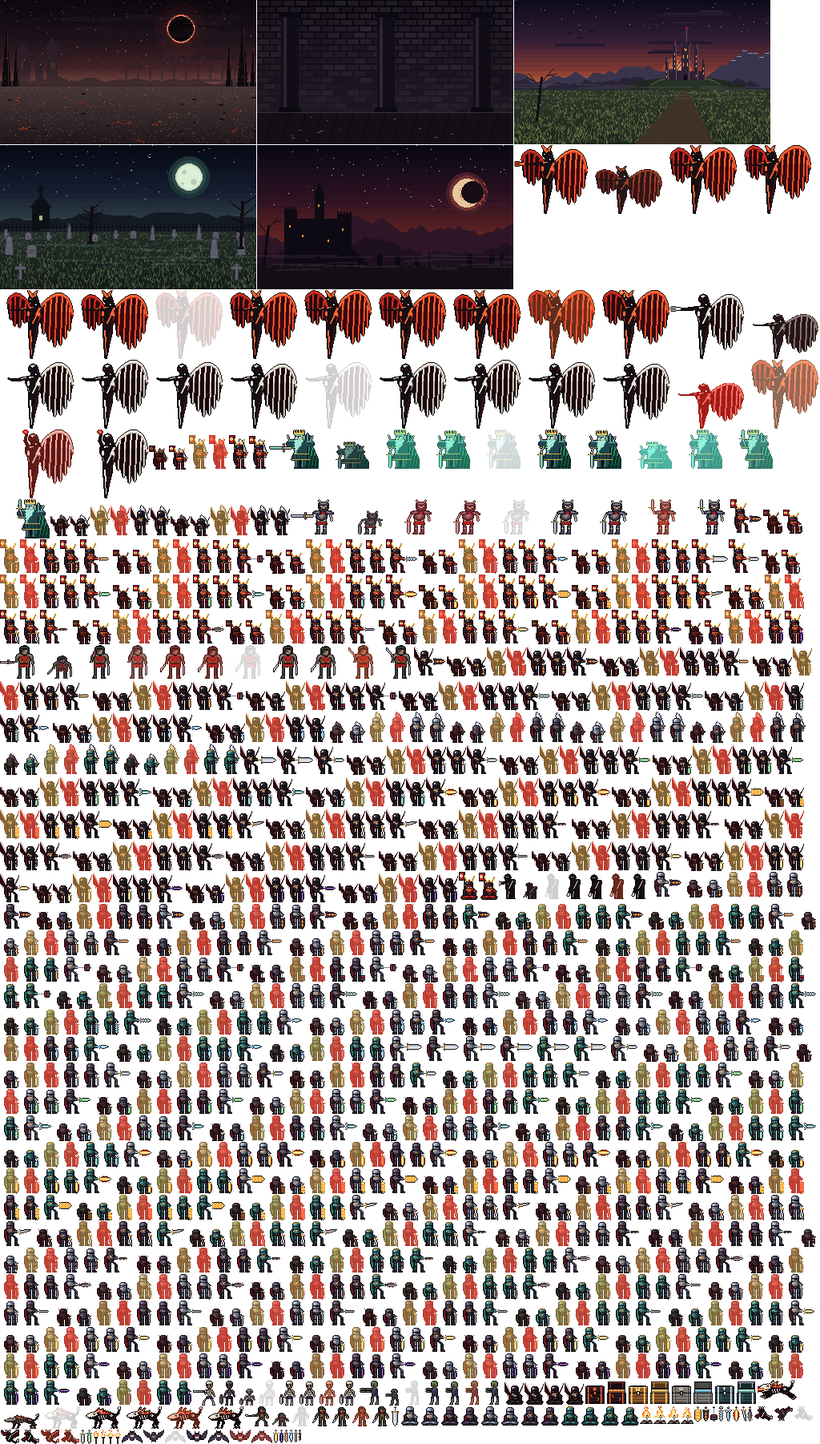
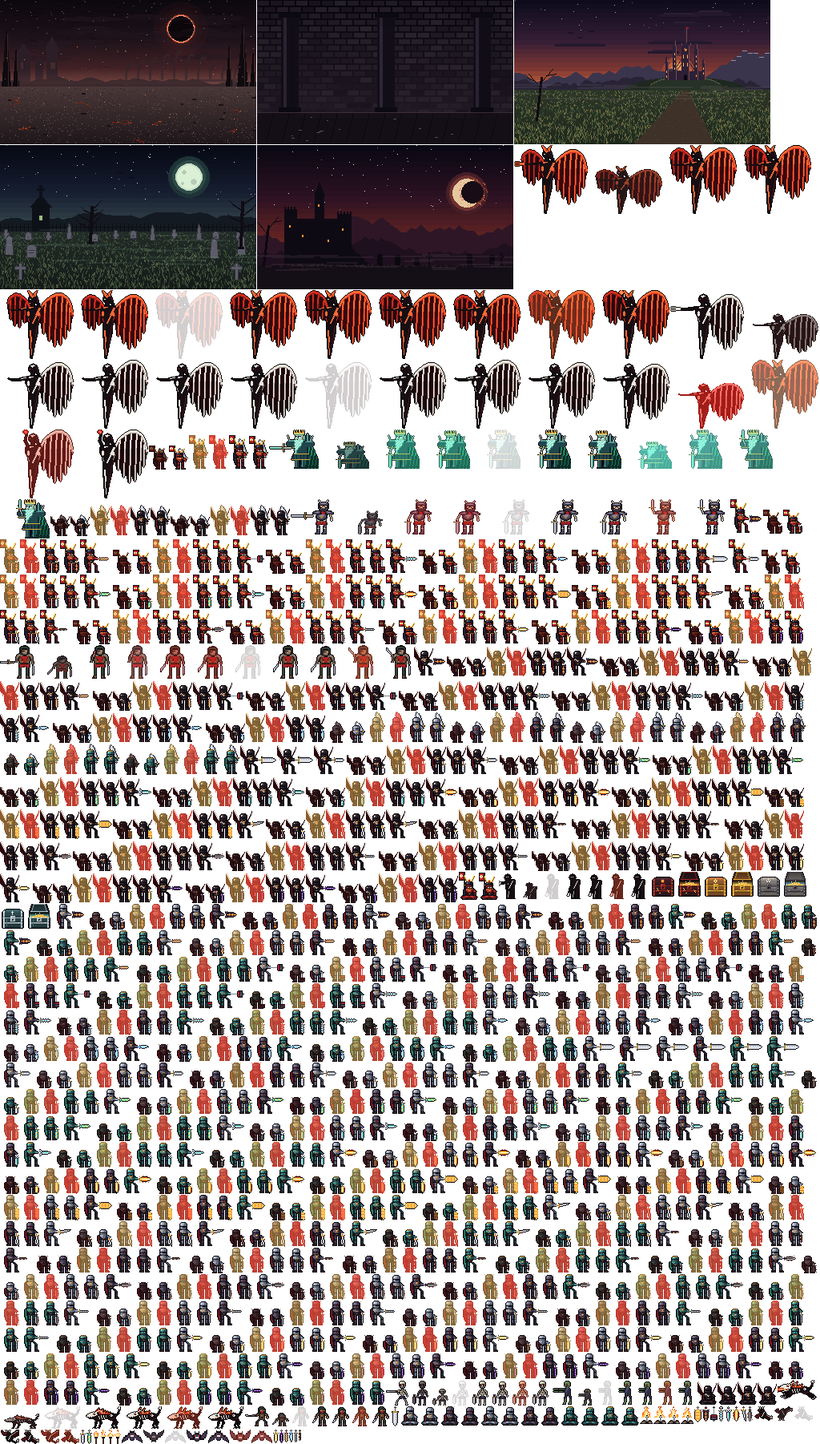
Сундуки объёмнее; в инвентаре — маленькие ячейки и панель сундука
Модели сундуков 32×32: выпуклая крышка со светотенью, доски с тенью к краям, оковка
с заклёпками и пояском, замок; у открытого — изнанка крышки в перспективе, свет и горка золота.
Вкладка «Сундуки»: квадратные ячейки 2×2 (в портрете — в ряд) и панель выбранного сундука
с условиями, легендарным оружием, гарантией и кнопкой «ОТКРЫТЬ».

Claude-Session: https://claude.ai/code/session_011mW4u7Ce1C3wwPLST6Z2ZA

Changed region(s): [[0.0, 0.5905, 1.0, 0.9945]]

diff --git a/fitness_rpg/web/js/game.js b/fitness_rpg/web/js/game.js
@@ -1837,6 +1837,7 @@ class InventoryScene extends Scene {
     this.msgT = 0;
     this.sparks = [];
     chestState(game.player);
+    this.sel = CHEST_ORDER.find((k) => game.player.chests[k] > 0) || "crypt"; // выбранный сундук
   }
   get ownsPanel() {
     return true;
@@ -1865,17 +1866,23 @@ class InventoryScene extends Scene {
     if (P) return { P, tabs: [[16, 96, 296, 60], [328, 96, 296, 60]], top: 176, bottom: g.H - 130, back: [24, g.H - 110, W - 48, 86] };
     return { P, tabs: [[12, 34, 200, 22], [218, 34, 200, 22]], top: 62, bottom: 312, back: [24, GAME_H - 40, 200, 30] };
   }
-  cards() {
+  /** Ячейки сундуков (маленькие квадраты) и панель выбранного. */
+  slots() {
     const L = this.layout();
     if (L.P) {
-      const h = Math.floor((L.bottom - L.top - 16) / 2);
-      return CHEST_ORDER.map((k, i) => [k, [16 + (i % 2) * 312, L.top + Math.floor(i / 2) * (h + 16), 296, h]]);
+      const s = Math.floor((W - 32 - 3 * 12) / 4);
+      return CHEST_ORDER.map((k, i) => [k, [16 + i * (s + 12), L.top, s, s]]);
     }
-    return CHEST_ORDER.map((k, i) => [k, [12 + i * 156, L.top, 148, L.bottom - L.top]]);
+    return CHEST_ORDER.map((k, i) => [k, [12 + (i % 2) * 100, L.top + 4 + Math.floor(i / 2) * 100, 92, 92]]);
   }
-  openRect([x, y, w, h]) {
-    const P = this.game.portrait;
-    return P ? [x + 16, y + h - 76, w - 32, 60] : [x + 10, y + h - 30, w - 20, 24];
+  panelRect() {
+    const L = this.layout();
+    if (L.P) { const top = L.top + this.slots()[0][1][3] + 20; return [16, top, W - 32, L.bottom - top]; }
+    return [216, L.top, W - 228, L.bottom - L.top];
+  }
+  openRect() {
+    const [x, y, w, h] = this.panelRect(), P = this.game.portrait;
+    return P ? [x + 40, y + h - 84, w - 80, 66] : [x + w / 2 - 90, y + h - 34, 180, 26];
   }
   /** Вещи героя: оружие (и неоткрытое оружие сундуков — силуэтом), доспехи, талисманы. */
   items() {
@@ -1894,8 +1901,8 @@ class InventoryScene extends Scene {
     const g = this.game, P = g.portrait, reps = this.open && this.open.phase === "reps";
     const h = P && reps ? GAME_H : P ? g.H : GAME_H;
     const k = P ? (reps ? 4 : 8) : 5;
-    const by = Math.round(h * (reps ? (P ? 0.6 : 0.72) : 0.5));
-    return { cx: W / 2, by, k, h, slotY: by + (P ? 110 : 62) };
+    const by = Math.round(h * (reps ? (P ? 0.6 : 0.72) : P ? 0.5 : 0.6));
+    return { cx: W / 2, by, k, h, slotY: by + (P ? 110 : 44) };
   }
   start(kind) {
     const C = CHESTS[kind];
@@ -1944,10 +1951,10 @@ class InventoryScene extends Scene {
     if (g.key("Escape") || g.tapped(L.back)) { sfx.click(); return g.change(new BonfireScene(g)); }
     ["chests", "items"].forEach((tab, i) => { if (g.tapped(L.tabs[i]) && this.tab !== tab) { sfx.click(); this.tab = tab; } });
     if (this.tab === "chests") {
-      for (const [kind, r] of this.cards()) {
-        if (!g.tapped(this.openRect(r)) && !g.tapped(r)) continue;
-        if (!(p.chests[kind] > 0)) { sfx.deny(); return this.say("Таких сундуков нет: они выпадают с врагов этой земли, с босса — всегда"); }
-        return this.start(kind);
+      for (const [kind, r] of this.slots()) if (g.tapped(r) && this.sel !== kind) { sfx.click(); this.sel = kind; }
+      if (g.tapped(this.openRect()) || g.key("Enter", " ")) {
+        if (!(p.chests[this.sel] > 0)) { sfx.deny(); return this.say("Таких сундуков нет: они выпадают с врагов этой земли, с босса — всегда"); }
+        return this.start(this.sel);
       }
     } else {
       for (const [key, own, r] of this.items()) {
@@ -2023,47 +2030,77 @@ class InventoryScene extends Scene {
   }
   drawChests() {
     const g = this.game, c = g.ctx, P = g.portrait, p = this.player, t = g.time, front = locationFor(frontierOf(p));
-    for (const [kind, r] of this.cards()) {
-      const C = CHESTS[kind], [x, y, w, h] = r, n = p.chests[kind] || 0, known = C.loc <= front || n > 0;
-      g.rect(r, n ? "rgba(34,24,26,0.95)" : "rgba(18,14,20,0.92)");
-      c.strokeStyle = n ? COL.gold : "rgb(70,58,60)";
+    const known = (kind) => CHESTS[kind].loc <= front || (p.chests[kind] || 0) > 0;
+    // ячейки: маленькие квадраты с сундуком и числом
+    for (const [kind, r] of this.slots()) {
+      const [x, y, w, h] = r, n = p.chests[kind] || 0, sel = this.sel === kind, kn = known(kind);
+      g.rect(r, sel ? "rgba(60,40,30,0.95)" : "rgba(22,16,22,0.95)");
+      if (n) drawGlow(c, x + w / 2, y + h * 0.58, w * 0.5, CHEST_GLOW[kind], 0.22 + 0.08 * Math.sin(t * 4));
+      c.strokeStyle = sel ? COL.gold : n ? "rgb(140,110,80)" : "rgb(64,54,60)";
+      c.lineWidth = sel ? (P ? 4 : 2) : P ? 2 : 1;
       c.strokeRect(x + 0.5, y + 0.5, w - 1, h - 1);
-      const fs = P ? 16 : 8, tw = w - (P ? 16 : 8);
-      this.line(known ? C.name : "???", x + w / 2, y + (P ? 14 : 6), tw, fs, known ? COL.text : COL.dim);
-      // сундук: есть — покачивается и светится
-      const spr = IMG[`chest_${kind}_0`], k = P ? 6 : 3, sx = x + w / 2 - spr.width * k / 2;
-      const sy = y + (P ? 44 : 20) + (n ? Math.round(Math.sin(t * 3 + C.loc) * (P ? 3 : 1)) : 0);
-      if (n) drawGlow(c, x + w / 2, sy + spr.height * k * 0.6, spr.width * k * 0.8, CHEST_GLOW[kind], 0.3 + 0.1 * Math.sin(t * 4));
+      c.lineWidth = 1;
+      const spr = IMG[`chest_${kind}_0`], k = P ? 3 : 2;
       c.save();
-      if (!known) c.filter = "brightness(0.15)";
-      else if (!n) c.globalAlpha = 0.45;
-      c.drawImage(spr, sx, sy, spr.width * k, spr.height * k);
+      if (!kn) c.filter = "brightness(0.12)";
+      else if (!n) c.globalAlpha = 0.4;
+      c.drawImage(spr, Math.round(x + (w - spr.width * k) / 2), Math.round(y + (h - spr.height * k) / 2 + (n ? Math.sin(t * 3 + CHESTS[kind].loc) * k / 2 : 0)), spr.width * k, spr.height * k);
       c.restore();
+      if (!kn) g.text("?", x + w / 2, y + h / 2 - (P ? 16 : 8), P ? 32 : 16, COL.dim, "center");
       if (n) {
-        g.rect([x + w - (P ? 70 : 38), sy, P ? 58 : 30, P ? 32 : 16], "rgba(140,30,30,0.95)");
-        g.text(`x${n}`, x + w - (P ? 41 : 23), sy + (P ? 8 : 4), P ? 16 : 8, "rgb(255,240,220)", "center");
+        const bw = P ? 50 : 26, bh = P ? 28 : 14;
+        g.rect([x + w - bw - 3, y + h - bh - 3, bw, bh], "rgba(150,30,30,0.95)");
+        g.text(`x${n}`, x + w - bw / 2 - 3, y + h - bh - 3 + (P ? 7 : 3), P ? 14 : 8, "rgb(255,240,220)", "center");
       }
-      let ty = sy + spr.height * k + (P ? 14 : 6);
-      const small = P ? 13 : 8, lh = P ? 22 : 11;
-      if (!known) {
-        this.line(tr(LOCATIONS[C.loc].name), x + w / 2, ty, tw, small, COL.dim);
-        continue;
-      }
-      this.line(tf("{n} × {ex}", { n: C.reps, ex: tr(NAMES[C.ex]).toLowerCase() }), x + w / 2, ty, tw, small, "rgb(150,230,140)");
-      ty += lh;
-      this.line(tr(LOCATIONS[C.loc].name), x + w / 2, ty, tw, small, COL.dim);
-      ty += lh + (P ? 8 : 3);
-      // легендарное оружие сундука: найдено — цветное, нет — силуэт и счётчик гарантии
-      const has = p.owned.includes(C.weapon), ik = P ? 4 : 2;
-      drawGlow(c, x + w / 2, ty + 10 * ik, 14 * ik, [255, 190, 60], has ? 0.35 : 0.12);
-      drawLootIcon(c, { kind: "item", key: C.weapon }, x + w / 2, ty + 10 * ik, ik, !has);
-      ty += 20 * ik + (P ? 6 : 3);
-      this.line(has ? tr(SWORDS[C.weapon].name) : "???", x + w / 2, ty, tw, small, has ? "rgb(255,200,90)" : "rgb(200,150,60)");
-      ty += lh;
-      const left = C.pity - (p.chestPity[kind] || 0);
-      this.line(has ? "найдено!" : tf("гарантия: до {n}", { n: left }), x + w / 2, ty, tw, P ? 12 : 8, has ? "rgb(150,230,140)" : COL.dim);
-      g.button(this.openRect(r), n ? "ОТКРЫТЬ" : "НЕТ СУНДУКОВ", { size: P ? 18 : 8, ...(n ? GO_STYLE : { color: COL.dim }) });
     }
+    if (!P) {
+      const hy = this.slots()[3][1][1] + 104;
+      g.text("С врагов земли — иногда,", 112, hy, 8, COL.dim, "center");
+      g.text("с босса — всегда", 112, hy + 12, 8, COL.dim, "center");
+    }
+    // панель выбранного сундука
+    const kind = this.sel, C = CHESTS[kind], n = p.chests[kind] || 0, kn = known(kind), [x, y, w, h] = this.panelRect();
+    g.rect([x, y, w, h], "rgba(20,14,20,0.95)");
+    c.strokeStyle = "rgb(110,84,60)";
+    c.strokeRect(x + 0.5, y + 0.5, w - 1, h - 1);
+    const fs = P ? 20 : 12, small = P ? 14 : 8, lh = P ? 26 : 13, cx = x + (P ? w / 2 : 96);
+    const spr = IMG[`chest_${kind}_0`], k = P ? 6 : 4, sy = y + (P ? 56 : 30);
+    if (n) drawGlow(c, cx, sy + spr.height * k * 0.6, spr.width * k * 0.75, CHEST_GLOW[kind], 0.35 + 0.1 * Math.sin(t * 4));
+    c.save();
+    if (!kn) c.filter = "brightness(0.12)";
+    c.drawImage(spr, Math.round(cx - spr.width * k / 2), Math.round(sy + (n ? Math.sin(t * 3) * 2 : 0)), spr.width * k, spr.height * k);
+    c.restore();
+    g.text(kn ? C.name : "???", P ? x + w / 2 : x + w / 2, y + (P ? 16 : 8), fs, kn ? COL.gold : COL.dim, "center");
+    // сведения: справа от сундука (горизонтально) или под ним (вертикально)
+    const tx = P ? x + w / 2 : x + 190, tw = P ? w - 32 : w - 200, align = P ? "center" : "left";
+    let ty = P ? sy + spr.height * k + 20 : y + 40;
+    const row = (text, col, size = small) => {
+      c.font = `${size}px ${FONT}`;
+      let tt = tr(text);
+      while (tt.length > 3 && c.measureText(tt).width > tw) tt = tt.slice(0, -2) + "…";
+      g.text(tt, tx, ty, size, col, align);
+      ty += lh;
+    };
+    if (!kn) {
+      row(tf("Земля: {land}", { land: tr(LOCATIONS[C.loc].name) }), COL.dim);
+      row("Дойдите до этой земли на карте", COL.dim);
+    } else {
+      row(tf("В инвентаре: {n}", { n }), n ? "rgb(255,230,160)" : COL.dim);
+      row(tf("Открыть: {n} × {ex}", { n: C.reps, ex: tr(NAMES[C.ex]).toLowerCase() }), "rgb(150,230,140)");
+      row(tf("Земля: {land}", { land: tr(LOCATIONS[C.loc].name) }), COL.dim);
+      row("Внутри: пепел и камни,", COL.text);
+      row("иногда — талисман", COL.text);
+      ty += P ? 6 : 3;
+      const has = p.owned.includes(C.weapon), ik = P ? 4 : 2, ix = P ? x + w / 2 : tx + 10 * ik;
+      drawGlow(c, ix, ty + 10 * ik, 14 * ik, [255, 190, 60], has ? 0.4 : 0.15);
+      drawLootIcon(c, { kind: "item", key: C.weapon }, ix, ty + 10 * ik, ik, !has);
+      if (P) ty += 22 * ik;
+      const wtx = P ? tx : tx + 24 * ik;
+      const left = C.pity - (p.chestPity[kind] || 0);
+      g.text(has ? tr(SWORDS[C.weapon].name) : tf("Легенда: {name}", { name: "???" }), wtx, ty + (P ? 0 : 6), P ? 16 : 8, has ? "rgb(255,200,90)" : "rgb(220,160,60)", align);
+      g.text(has ? "найдено!" : tf("гарантия: до {n} сундуков", { n: left }), wtx, ty + (P ? 24 : 20), P ? 12 : 8, has ? "rgb(150,230,140)" : COL.dim, align);
+    }
+    g.button(this.openRect(), n ? "ОТКРЫТЬ" : "НЕТ СУНДУКОВ", { size: P ? 22 : 12, ...(n ? GO_STYLE : { color: COL.dim }) });
   }
   drawItems() {
     const g = this.game, c = g.ctx, P = g.portrait, p = this.player;

diff --git a/fitness_rpg/web/js/i18n.js b/fitness_rpg/web/js/i18n.js
@@ -419,6 +419,16 @@ const EN = {
   "пламя гаснет!": "flame is fading!",
   "СЕРИЯ ОГОНЬКОВ": "FLAME STREAK",
   "ДОСТИЖЕНИЕ!": "ACHIEVEMENT!",
+  "С врагов земли — иногда,": "From the land's enemies: sometimes,",
+  "с босса — всегда": "from the boss: always",
+  "Земля: {land}": "Land: {land}",
+  "Дойдите до этой земли на карте": "Reach this land on the map",
+  "В инвентаре: {n}": "In inventory: {n}",
+  "Открыть: {n} × {ex}": "Open: {n} × {ex}",
+  "Внутри: пепел и камни,": "Inside: ash and gems,",
+  "иногда — талисман": "sometimes a talisman",
+  "Легенда: {name}": "Legend: {name}",
+  "гарантия: до {n} сундуков": "guaranteed within {n} chests",
   "ИНВЕНТАРЬ": "INVENTORY",
   "Пепел {a} · алые {r} · синие {b}": "Ash {a} · red {r} · blue {b}",
   "СУНДУКИ ({n})": "CHESTS ({n})",

diff --git a/fitness_rpg/game/art.py b/fitness_rpg/game/art.py
@@ -1495,73 +1495,145 @@ def make_meditate_frames(look):
     return [out, shifted_breath(out)]
 
 
-# Сундуки земель: (дерево/камень, тень, оковка, блик оковки, свечение внутри, знак)
+# Сундуки земель: (корпус, металл оковки, блик металла, свечение внутри, знак на крышке)
 CHEST_STYLES = {
-    "crypt": ((128, 122, 116), (78, 72, 70), (60, 56, 60), (150, 146, 150), (140, 220, 255), "skull"),   # Костяной сундук
-    "castle": ((140, 88, 46), (90, 54, 30), (212, 160, 48), (255, 228, 130), (255, 220, 120), "lock"),   # Сундук разбойников
-    "grave": ((40, 66, 70), (22, 40, 44), (176, 190, 196), (230, 240, 244), (170, 255, 236), "cross"),  # Гробовой ковчег
-    "abyss": ((40, 24, 30), (22, 12, 16), (150, 40, 34), (255, 120, 40), (255, 150, 60), "eye"),       # Адский ковчег
+    "crypt": ((132, 126, 120), (74, 72, 82), (176, 176, 188), (140, 220, 255), "skull"),   # Костяной сундук: камень и чернёное железо
+    "castle": ((150, 92, 48), (200, 150, 44), (255, 232, 140), (255, 214, 110), "lock"),  # Сундук разбойников: дуб и золото
+    "grave": ((46, 76, 80), (168, 182, 190), (238, 246, 250), (170, 255, 236), "cross"),  # Гробовой ковчег: тёмное дерево и серебро
+    "abyss": ((54, 30, 38), (140, 36, 30), (255, 130, 50), (255, 150, 60), "eye"),        # Адский ковчег: обсидиан и раскалённая медь
 }
-CHEST_SIGNS = {  # 5×5 знаки на крышке/замке
-    "skull": [".www.", "wkwkw", "wwwww", ".w.w.", "....."],
-    "lock": [".yyy.", "y...y", "yyyyy", "yykyy", "yyyyy"],
-    "cross": ["..w..", ".www.", "..w..", "..w..", "....."],
-    "eye": [".rrr.", "rrorr", "royor", "rrorr", ".rrr."],
+CHEST_SIGNS = {  # 5×5 знаки на крышке: w — кость/серебро, y — блик металла, k — контур, r — металл, o — огонь
+    "skull": [".www.", "wkwkw", "wwwww", ".wkw.", "....."],
+    "lock": ["..y..", ".yyy.", "yykyy", ".yyy.", "..y.."],
+    "cross": ["..w..", ".www.", "..w..", "..w..", "..w.."],
+    "eye": [".rrr.", "rooor", "royor", "rooor", ".rrr."],
 }
+
+
+def _shade(c, f):
+    return tuple(max(0, min(255, int(v * f))) for v in c)
 
 
 def make_chest(kind):
-    """Сундук земли: [закрыт, открыт]. Холст 26×30, низ — дно сундука (крышка открытого — над ним)."""
-    wood, dark, band, light, glow, sign = CHEST_STYLES[kind]
-    k = (16, 12, 22)
-    cols = {"w": (236, 230, 214), "k": k, "y": light, "r": band, "o": (255, 160, 60), ".": None}
+    """Объёмный сундук земли: [закрыт, открыт], холст 32×32, низ — дно.
+    Выпуклая крышка (светлее сверху), доски корпуса с тенью к краям и низу, металлические уголки
+    с заклёпками, рант и замок; у открытого — изнанка крышки, свет и золото внутри."""
+    wood, metal, mlight, glow, sign = CHEST_STYLES[kind]
+    K = (14, 10, 18)
+    W, H = 32, 32
     out = []
     for opened in (False, True):
-        surf = pygame.Surface((26, 30), pygame.SRCALPHA)
-        r = lambda x, y, w, h, c: pygame.draw.rect(surf, c, (x, y, w, h))
-        # корпус
-        r(1, 16, 24, 14, k)
-        r(2, 17, 22, 12, wood)
-        for y in (20, 24):
-            r(2, y, 22, 1, dark)  # доски
-        r(2, 27, 22, 2, dark)
-        for x in (4, 20):  # оковка
-            r(x, 16, 2, 14, band)
-            r(x, 17, 1, 12, light)
+        g = [[None] * W for _ in range(H)]
+
+        def put(x, y, c):
+            if 0 <= x < W and 0 <= y < H and c:
+                g[y][x] = c
+
+        def edge(x, x0, x1):  # затенение к бокам: корпус кажется круглее
+            d = min(x - x0, x1 - x)
+            return 0.72 if d == 0 else 0.86 if d == 1 else 1.0
+
+        # ---- корпус: y 18..29
+        for y in range(18, 30):
+            for x in range(3, 29):
+                f = (1.0 - (y - 18) * 0.022) * edge(x, 3, 28)
+                if (y - 18) % 4 == 3:
+                    f *= 0.72  # стык досок
+                if kind == "crypt" and (x * 7 + y * 3) % 11 == 0:
+                    f *= 0.85  # каменные выщерблины
+                put(x, y, _shade(wood, f))
+        for x in range(3, 29):  # тёмное дно и полоса тени под рантом
+            put(x, 29, _shade(wood, 0.5))
+            put(x, 18, _shade(wood, 0.62))
+        # ---- металл: уголки по бокам, рант
+        for y in range(18, 30):
+            for x, f in ((4, 1.25), (5, 0.95), (26, 1.05), (27, 0.8)):
+                put(x, y, _shade(metal, f))
+        for x in range(3, 29):
+            put(x, 17, _shade(metal, 1.15 if x % 2 else 1.0))
+        for x in range(6, 26):  # поясок оковки по корпусу
+            put(x, 23, _shade(metal, 1.0))
+            put(x, 24, _shade(metal, 0.7))
+        for x in (4, 27):
+            for y in (20, 24, 28):
+                put(x, y, mlight)  # заклёпки
+        for x in (8, 23):
+            put(x, 23, mlight)
         if opened:
-            # крышка откинута назад: видна её внутренняя сторона, из сундука бьёт свет
-            r(2, 2, 22, 9, k)
-            r(3, 3, 20, 7, dark)
-            r(3, 3, 20, 1, band)
-            for x in (5, 20):
-                r(x, 3, 1, 7, band)
-            r(2, 11, 22, 5, k)
-            for i, a in enumerate((255, 200, 150, 110)):
-                r(3, 12 + i, 20, 1, tuple(int(c * a / 255 + w * (1 - a / 255) * 0.3) for c, w in zip(glow, wood)))
-            for x in (6, 11, 15, 19):  # блёстки добычи
-                surf.set_at((x, 12), (255, 255, 230))
+            # ---- внутри: тёмная глубина, снизу свет и горка золота
+            for y in range(11, 17):
+                for x in range(4, 28):
+                    k = (y - 11) / 5
+                    put(x, y, tuple(int(_shade(wood, 0.25)[i] * (1 - k) + glow[i] * k * 0.9) for i in range(3)))
+            for x in range(5, 27):  # горка монет: выше посередине
+                top = 16 - max(0, 3 - abs(x - 16) // 3)
+                for y in range(top, 17):
+                    put(x, y, (255, 248, 190) if (x * 3 + y) % 5 == 0 else (255, 214, 80) if (x + y) % 2 else (214, 150, 40))
+            for x, y in ((11, 12), (20, 13), (16, 11)):
+                put(x, y, (255, 255, 240))  # искры над золотом
+            for x in range(4, 28):
+                put(x, 10, _shade(wood, 0.45))  # край задней стенки
+            # ---- откинутая крышка: изнанка, сужается кверху (перспектива)
+            for y in range(0, 10):
+                inset = (10 - y) // 3
+                for x in range(4 + inset, 28 - inset):
+                    f = (0.55 + (y - 1) * 0.03) * edge(x, 4 + inset, 27 - inset)
+                    put(x, y, _shade(wood, f))
+                for x in (6 + inset, 25 - inset):
+                    put(x, y, _shade(metal, 0.9))
+            for x in range(5, 27):
+                put(x, 9, _shade(metal, 1.1))
+            for x in range(8, 24):
+                put(x, 0, _shade(metal, 0.8))
         else:
-            # крышка: полукруглая, с оковкой и знаком земли
-            r(1, 8, 24, 9, k)
-            r(3, 7, 20, 1, k)
-            r(2, 9, 22, 7, wood)
-            r(2, 9, 22, 1, light if kind == "castle" else tuple(min(255, c + 30) for c in wood))
-            r(2, 15, 22, 1, dark)
-            for x in (4, 20):
-                r(x, 8, 2, 9, band)
-                r(x, 9, 1, 7, light)
-            # замок
-            r(11, 14, 4, 5, k)
-            r(12, 15, 2, 3, light)
+            # ---- крышка-бочонок: y 7..16, светлее к вершине
+            for y in range(7, 17):
+                x0 = {7: 7, 8: 5, 9: 4}.get(y, 3)
+                x1 = 31 - x0 - 1 + 1 - 1 if False else W - 1 - x0
+                x1 = min(x1, 28)
+                for x in range(x0, x1 + 1):
+                    t = (y - 7) / 9
+                    f = (1.32 - 0.55 * t) * edge(x, x0, x1)
+                    if y == 11:
+                        f *= 0.85  # перегиб крышки
+                    put(x, y, _shade(wood, f))
+                for x, f in ((4, 1.3), (5, 1.0), (26, 1.1), (27, 0.85)):
+                    if x0 <= x <= x1:
+                        put(x, y, _shade(metal, f * (1.2 - 0.4 * (y - 7) / 9)))
+            for x in range(9, 23, 3):  # блик на макушке
+                put(x, 8, _shade(wood, 1.6))
+            put(10, 9, _shade(wood, 1.5))
+            for x in (4, 27):
+                put(x, 10, mlight)  # заклёпки крышки
+                put(x, 14, mlight)
+            # знак земли на крышке
+            cols = {"w": (236, 230, 214), "k": K, "y": mlight, "r": metal, "o": (255, 170, 60)}
             for yy, row in enumerate(CHEST_SIGNS[sign]):
                 for xx, ch in enumerate(row):
-                    if cols.get(ch):
-                        surf.set_at((10 + xx, 9 + yy), cols[ch])
-        if kind == "abyss":  # лавовые трещины на корпусе
-            for x, y in ((7, 18), (8, 19), (8, 20), (9, 21), (16, 22), (17, 23), (17, 24), (16, 25)):
-                surf.set_at((x, y), (255, 120, 30))
-        if kind == "grave":  # лунный блик
-            r(8, 18, 1, 8, (70, 110, 116))
+                    if ch in cols:
+                        put(13 + xx, 9 + yy, cols[ch])
+        # ---- замок на ранте
+        for y in range(15 if not opened else 17, 22):
+            for x in range(13, 19):
+                put(x, y, _shade(metal, 1.15 if x == 13 or y == 15 else 0.95))
+        put(15, 19, K)
+        put(16, 19, K)
+        put(15, 20, K)
+        put(14, 16 if not opened else 18, mlight)
+        if kind == "abyss":  # трещины лавы на корпусе
+            for x, y in ((8, 20), (9, 21), (9, 22), (10, 23), (21, 22), (22, 23), (22, 24), (23, 25), (11, 26), (12, 26)):
+                put(x, y, (255, 120, 30) if (x + y) % 2 else (255, 210, 110))
+        if kind == "grave":  # лунный отблеск по доскам
+            for y in range(19, 28):
+                put(8, y, _shade(wood, 1.5))
+        # ---- контур
+        surf = pygame.Surface((W, H), pygame.SRCALPHA)
+        for y in range(H):
+            for x in range(W):
+                if g[y][x]:
+                    surf.set_at((x, y), g[y][x])
+                elif any(0 <= x + dx < W and 0 <= y + dy < H and g[y + dy][x + dx] for dx, dy in ((1, 0), (-1, 0), (0, 1), (0, -1))):
+                    surf.set_at((x, y), K)
         out.append(surf)
     return out
 
